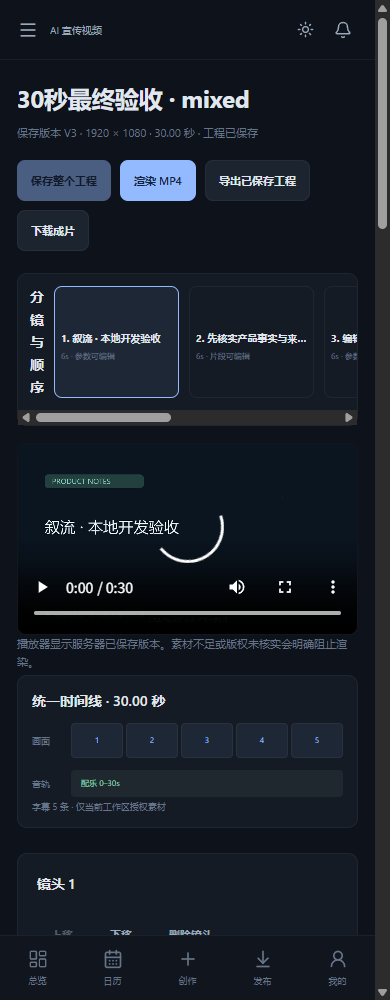
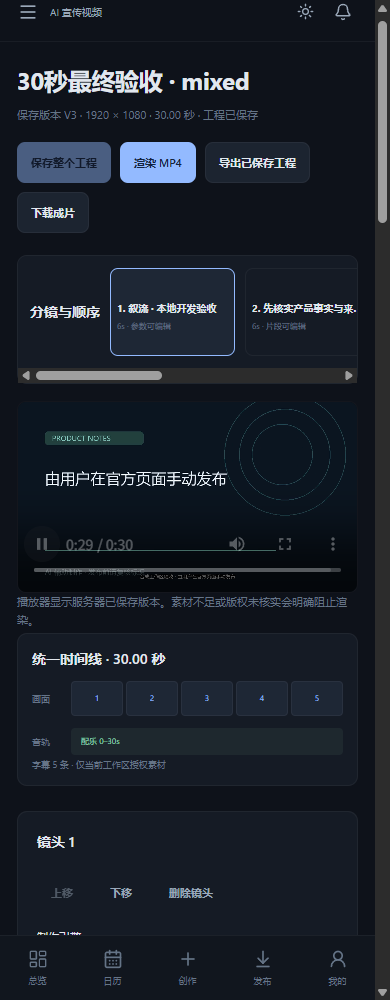
docs: record final V1 CI and actual playback evidence

diff --git a/PROJECT_STATUS.md b/PROJECT_STATUS.md
@@ -15,10 +15,10 @@
 | 数据与复盘 | 已运行 | CSV/XLSX 字段匹配、手工指标/版本、未知值、批次撤销、反馈、不可变证据报告、策略审批/拒绝/回滚及后续计划快照 |
 | 真实模型接口 | 代码与受控契约通过 | 工作区加密密钥、端点允许列表、配置冻结、独立分析授权、原子预算、未知回执不重试、人工核对；没有真实凭据，未运行真实提供者/付费联调 |
 | 通知、隐私、维护 | 已运行 | 站内即时/日汇总/关闭、已读、提醒、私有记录与素材导出、真实任务账本、诊断/版本/磁盘/迁移状态；无外发通知、支付、S3 或生产监控 |
-| 数据库 | SQLite 0009 已升级 | 停机前在线备份校验，升级后 integrity_check=ok；旧记录保持。CI 另测 PostgreSQL，详见最终集成报告 |
+| 数据库 | SQLite 0009 已升级 | 停机前在线备份校验，升级后 integrity_check=ok；旧记录保持。最终功能提交的 CI SQLite/PostgreSQL 两项通过，详见最终集成报告 |
 | 浏览器与下载 | 有明确测试边界 | 38 页面渲染、60 宽度检查、实际编辑/恢复/图文/反馈/报告操作通过；PNG/JPEG/MP4/ZIP HTTP 字节与哈希通过；自动化 Chrome 保存被取消，替代内置浏览器初始化失败，未算文件保存通过 |
 | 生产与商业运营 | 未运行 | 未部署生产、未配置生产 SLO/告警/PITR；没有真实用户两周试点。第三方素材/字体/语音/FFmpeg 商业许可须独立确认 |
 
 完整执行命令、结果、截图和成片见 [最终集成验收](docs/implementation/FINAL_ACCEPTANCE.md)，使用方法见 [本地手册](docs/implementation/LOCAL_USER_GUIDE.md)。原始 `开发文档/` 和 `prototype/` 保留，不用其历史演示声明代替真实实现。
 
-GitHub 增量按目的拆分，均为开放 PR，尚未合并到 main：#8 事实修订、#10 视频工程、#12 证据复盘、#14 设置通知、#16 持续媒体、#18 预算模型复盘。最后 #19 任务收集集成修复与验收。生产部署或合并未在本轮执行。
+GitHub 增量按目的拆分，均为开放 PR，尚未合并到 main：#8 事实修订、#10 视频工程、#12 证据复盘、#14 设置通知、#16 持续媒体、#18 预算模型复盘。最后 #19 任务 / PR #20 收集集成修复与验收，功能提交远端四项全部通过。生产部署或合并未在本轮执行。
